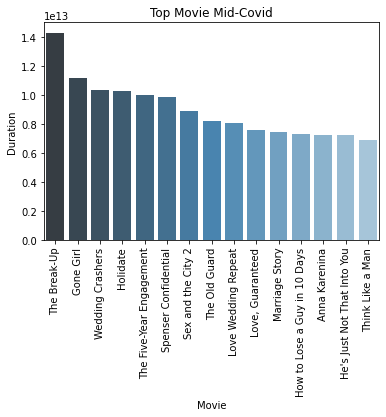
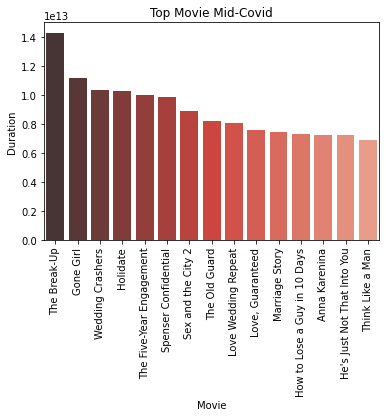
Updating Graphs

Changed region(s): [[0.1554, 0.1871, 0.9948, 0.5923]]

diff --git a/Netflix_Personal.py b/Netflix_Personal.py
@@ -252,11 +252,11 @@ print(Karina_Year)
 
 Karina_Year_df = pd.DataFrame(Karina_Year)
 Karina_Year_df.reset_index(inplace = True)
-Karina_Year_df.rename(columns={'index':'year', 'Duration':'Duration'}, inplace = True)
+Karina_Year_df.rename(columns = {'index':'year', 'Duration':'Duration'}, inplace = True)
 Karina_Year_df
 
 #Creating a graph for TV Shows
-Karina_Year_df_graph=sns.barplot(x = "year", y = "Duration", data = Karina_Year_df,
+Karina_Year_df_graph = sns.barplot(x = "year", y = "Duration", data = Karina_Year_df,
                  palette = 'Blues_d')
 Karina_Year_df_graph.set_title('Top 15 TV Shows Mid-Covid')
 Karina_Year_df_graph.set_ylabel('Duration')
@@ -276,11 +276,11 @@ print(Karina_Month)
 
 Karina_Month_df = pd.DataFrame(Karina_Month)
 Karina_Month_df.reset_index(inplace = True)
-Karina_Month_df.rename(columns={'index':'month', 'Duration':'Duration'}, inplace = True)
+Karina_Month_df.rename(columns = {'index':'month', 'Duration':'Duration'}, inplace = True)
 Karina_Month_df
 
 #Creating a graph for TV Shows
-Karina_Month_df_graph=sns.barplot(x = "month", y = "Duration", data = Karina_Month_df,
+Karina_Month_df_graph = sns.barplot(x = "month", y = "Duration", data = Karina_Month_df,
                  palette = 'Blues_d')
 Karina_Month_df_graph.set_title('Top 15 TV Shows Mid-Covid')
 Karina_Month_df_graph.set_ylabel('Duration')
@@ -302,11 +302,11 @@ print(Karina_Month_Year)
 
 Karina_Month_Year_df = pd.DataFrame(Karina_Month_Year)
 Karina_Month_Year_df.reset_index(inplace = True)
-Karina_Month_Year_df.rename(columns={'index':'month_year', 'Duration':'Duration'}, inplace = True)
+Karina_Month_Year_df.rename(columns = {'index':'month_year', 'Duration':'Duration'}, inplace = True)
 Karina_Month_Year_df
 
-#Creating a graph for TV Shows
-Karina_Month_Year_df_graph=sns.barplot(x = "month_year", y = "Duration", data = Karina_Month_Year_df,
+#Creating a graph for Month and Year
+Karina_Month_Year_df_graph = sns.barplot(x = "month_year", y = "Duration", data = Karina_Month_Year_df,
                  palette = 'Greens_d')
 Karina_Month_Year_df_graph.set_title('Top 15 TV Shows Mid-Covid')
 Karina_Month_Year_df_graph.set_ylabel('Duration')
@@ -330,12 +330,21 @@ print(views_by_Type)
 # 1  TV Show 82 days 01:40:23
 
 
-plt.figure(figsize = (12, 8))
-views_by_Type.plot(kind = 'bar')
-plt.xticks(rotation = 90)
-plt.title('TV Show or Movie?', fontsize = 14)
-plt.ylabel('Duration', fontsize = 12)
-plt.show()
+
+#Creating a dataframe for TV Shows
+views_by_Type_df = pd.DataFrame(views_by_Type)
+views_by_Type_df.reset_index(inplace = True)
+views_by_Type_df.rename(columns = {'index':'Type', 'Duration':'Duration'}, inplace = True)
+views_by_Type_df
+
+#Creating a 
+#views_by_Type_df_graph = sns.barplot(x = "Type", y = "Duration", data = views_by_Type_df,
+#                 palette = 'Greens_d')
+#views_by_Type_df_graph.set_title('Top 15 TV Shows Mid-Covid')
+#views_by_Type_df_graph.set_ylabel('Duration')
+#views_by_Type_df_graph.set_xlabel('Month and Year')
+#views_by_Type_df_graph.set_xticklabels(views_by_Type_df_graph.get_xticklabels(), rotation = 90)
+#
 
 
 # =============================================================================
@@ -378,18 +387,16 @@ print(top_movie)
 #Creating a dataframe for Movie
 top_move_df = pd.DataFrame(top_movie.head(15))
 top_move_df.reset_index(inplace = True)
-top_move_df.rename(columns={'index':'Title_name', 'Duration':'Duration'}, inplace = True)
+top_move_df.rename(columns = {'index':'Title_name', 'Duration':'Duration'}, inplace = True)
 
 
 #Creating a graph for Movie
 movie_graph = sns.barplot(x = "Title_name", y = "Duration", data = top_move_df,
-                 palette='Blues_d')
+                 palette = 'viridis')
 movie_graph.set_title('Top 15 Movies')
 movie_graph.set_ylabel('Duration')
 movie_graph.set_xlabel('Movies')
-movie_graph.set_xticklabels(movie_graph.get_xticklabels(), rotation=90)
-
-
+movie_graph.set_xticklabels(movie_graph.get_xticklabels(), rotation = 90)
 
 # =============================================================================
 # Examining TV Show (for Karina)
@@ -408,12 +415,12 @@ print(top_TV_Show)
 #Creating a dataframe for TV Shows
 top_TV_Show_df = pd.DataFrame(top_TV_Show)
 top_TV_Show_df.reset_index(inplace = True)
-top_TV_Show_df.rename(columns={'index':'Title_name', 'Duration':'Duration'}, inplace = True)
+top_TV_Show_df.rename(columns = {'index':'Title_name', 'Duration':'Duration'}, inplace = True)
 top_TV_Show_df
 
 #Creating a graph for TV Shows
-TV_Show_graph=sns.barplot(x = "Title_name", y = "Duration", data = top_TV_Show_df,
-                 palette = 'Blues_d')
+TV_Show_graph = sns.barplot(x = "Title_name", y = "Duration", data = top_TV_Show_df,
+                 palette = 'viridis')
 TV_Show_graph.set_title('Top 15 TV Shows')
 TV_Show_graph.set_ylabel('Duration')
 TV_Show_graph.set_xlabel('TV Shows')
@@ -432,7 +439,7 @@ comparing_habits = pd.DataFrame({'Normality': Karina['normality'],
                    'Duration': Karina['Duration']})
     
 comparing_habits_WD_pivot = pd.pivot_table(
-        comparing_habits, values='Duration', index=['Weekdays'], columns=['Normality'], aggfunc=np.sum)
+        comparing_habits, values='Duration', index = ['Weekdays'], columns = ['Normality'], aggfunc = np.sum)
 
 # Compare the data
 print(comparing_habits_WD_pivot)
@@ -457,7 +464,7 @@ plt.show()
 
 
 comparing_habits_HRS_pivot = pd.pivot_table(
-        comparing_habits, values='Duration', index=['Hour'], columns=['Normality'], aggfunc=np.sum)
+        comparing_habits, values = 'Duration', index = ['Hour'], columns = ['Normality'], aggfunc = np.sum)
 
 # Compare the data
 print(comparing_habits_HRS_pivot)
@@ -539,12 +546,12 @@ print(top_TV_Show_mid_COVID)
 #Creating a dataframe for TV Shows
 top_TV_Show_mid_COVID_df = pd.DataFrame(top_TV_Show_mid_COVID.head(15))
 top_TV_Show_mid_COVID_df.reset_index(inplace = True)
-top_TV_Show_mid_COVID_df.rename(columns={'index':'Title_name', 'Duration':'Duration'}, inplace = True)
+top_TV_Show_mid_COVID_df.rename(columns = {'index':'Title_name', 'Duration':'Duration'}, inplace = True)
 top_TV_Show_mid_COVID_df
 
 #Creating a graph for TV Shows
-top_TV_Show_mid_COVID_graph=sns.barplot(x = "Title_name", y = "Duration", data = top_TV_Show_mid_COVID_df,
-                 palette = 'Blues_d')
+top_TV_Show_mid_COVID_graph = sns.barplot(x = "Title_name", y = "Duration", data = top_TV_Show_mid_COVID_df,
+                 palette = 'Reds_d')
 top_TV_Show_mid_COVID_graph.set_title('Top 15 TV Shows Mid-Covid')
 top_TV_Show_mid_COVID_graph.set_ylabel('Duration')
 top_TV_Show_mid_COVID_graph.set_xlabel('TV Shows')
@@ -583,12 +590,12 @@ print(Covid_top_movie)
 #Creating a dataframe for Movie
 Covid_top_move_df = pd.DataFrame(Covid_top_movie)
 Covid_top_move_df.reset_index(inplace = True)
-Covid_top_move_df.rename(columns={'index':'Title_name', 'Duration':'Duration'}, inplace = True)
+Covid_top_move_df.rename(columns = {'index':'Title_name', 'Duration':'Duration'}, inplace = True)
 Covid_top_move_df
 
 #Creating a graph for Movie
-Covid_top_move_mid_COVID_graph=sns.barplot(x = "Title_name", y = "Duration", data = Covid_top_move_df,
-                 palette = 'Blues_d')
+Covid_top_move_mid_COVID_graph = sns.barplot(x = "Title_name", y = "Duration", data = Covid_top_move_df,
+                 palette = 'Reds_d')
 Covid_top_move_mid_COVID_graph.set_title('Top Movie Mid-Covid')
 Covid_top_move_mid_COVID_graph.set_ylabel('Duration')
 Covid_top_move_mid_COVID_graph.set_xlabel('Movie')
